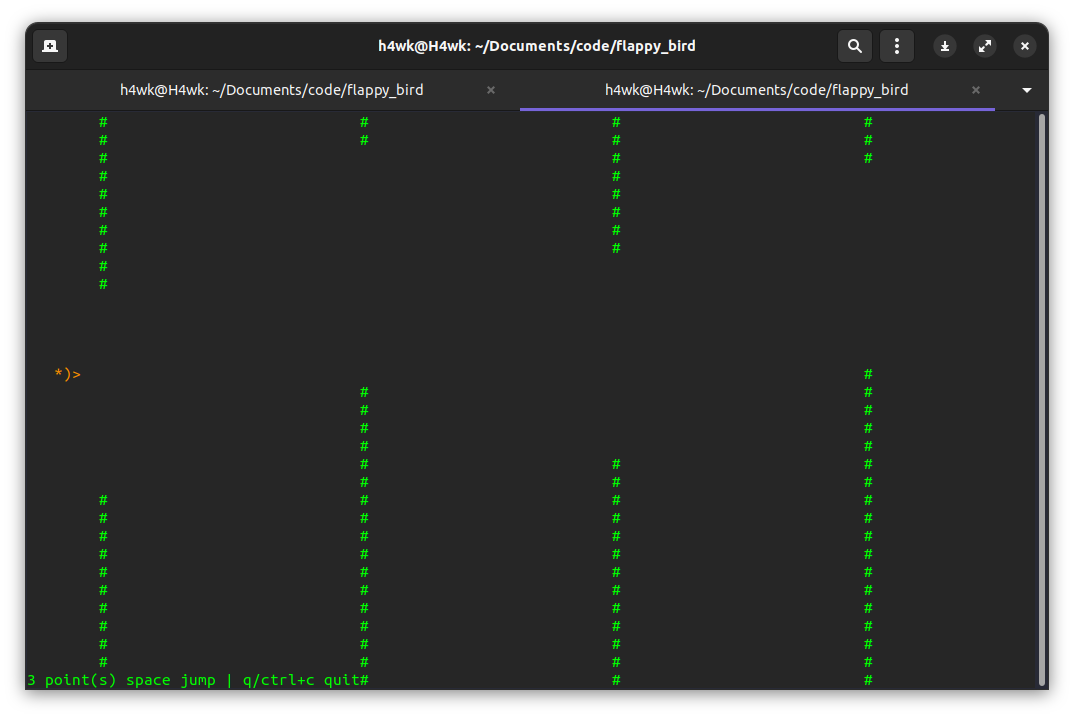
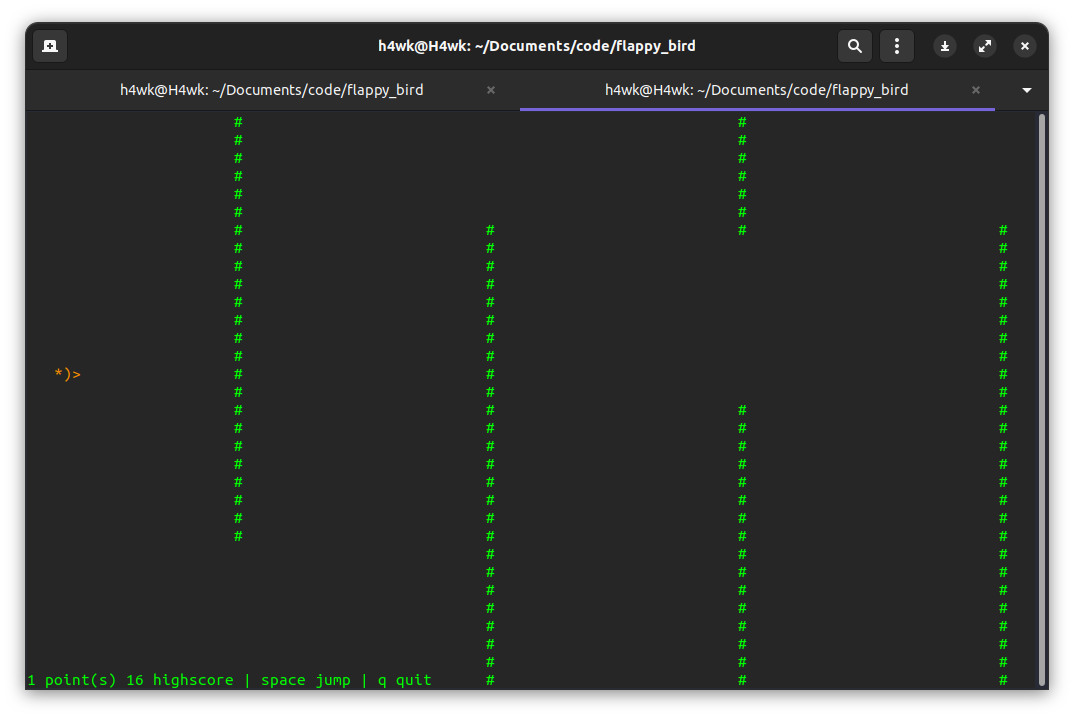
add highscore

diff --git a/main.c b/main.c
@@ -294,9 +294,29 @@ void increase_score(bird *b, pipe *p, int *score) {
    }
 }
 
+// read highscore from file
+void read_highscore(int *highscore) {
+   FILE *fptr = fopen("highscore.txt", "ab+");
+   fscanf(fptr, "%d", highscore);
+   fclose(fptr);
+}
+
+// save score as highscore
+void save_score(int score, int highscore) {
+   if (score < highscore)
+      return;
+
+   FILE *fptr = fopen("highscore.txt", "wb+");
+   fprintf(fptr, "%d", score);
+   fclose(fptr);
+}
+
 EXIT_STATUS run() {
    // init variables
    int score = 0;
+   int highscore = 0;
+   read_highscore(&highscore);
+
    bird *flappy = new_bird();
    pipe *pipes = init_pipes();
 
@@ -312,6 +332,7 @@ EXIT_STATUS run() {
       if (ch == Q_KEY) {
          free_pipes(pipes);
          free_bird(flappy);
+         save_score(score, highscore);
          return EXIT; 
       }
       if (ch == SPACE)
@@ -327,12 +348,14 @@ EXIT_STATUS run() {
       // check for collisions
       EXIT_STATUS = check_collision(flappy, pipes, score);
       switch (EXIT_STATUS) {
-         case PLAY_AGAIN:  return PLAY_AGAIN;
-         case EXIT:        return EXIT;
+         case PLAY_AGAIN:  save_score(score, highscore); return PLAY_AGAIN;
+         case EXIT:        save_score(score, highscore); return EXIT;
       }
 
       // check for increase score
       increase_score(flappy, pipes, &score);
+      // update highscore in real time
+      highscore = fmax(highscore, score);
 
       // OOB
       check_out_of_bounds(pipes);
@@ -341,9 +364,10 @@ EXIT_STATUS run() {
       draw_bird(flappy);
 
       attron(COLOR_PAIR(PIPE_PAIR));
-      mvprintw(LINES - 1, 0, "%d point(s) space jump | q/ctrl+c quit", score);
+      mvprintw(LINES - 1, 0, "%d point(s) %d highscore | space jump | q quit", score, highscore);
       attroff(COLOR_PAIR(PIPE_PAIR));
    }
+   save_score(score, highscore);
    return EXIT;
 }
 
@@ -351,9 +375,11 @@ int main(void) {
    init_ncurses();
    srand(time(NULL));
    EXIT_STATUS STATUS;
+
    do {
       STATUS = run();
    } while(STATUS != EXIT);
+
    endwin();
    return 0;
 }
